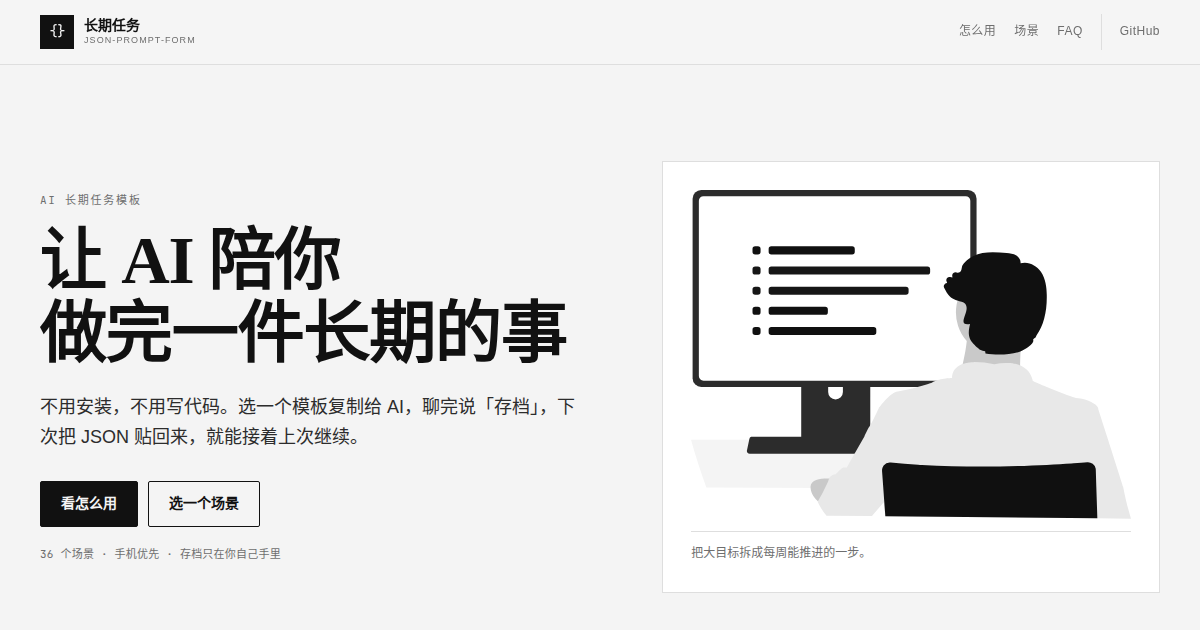
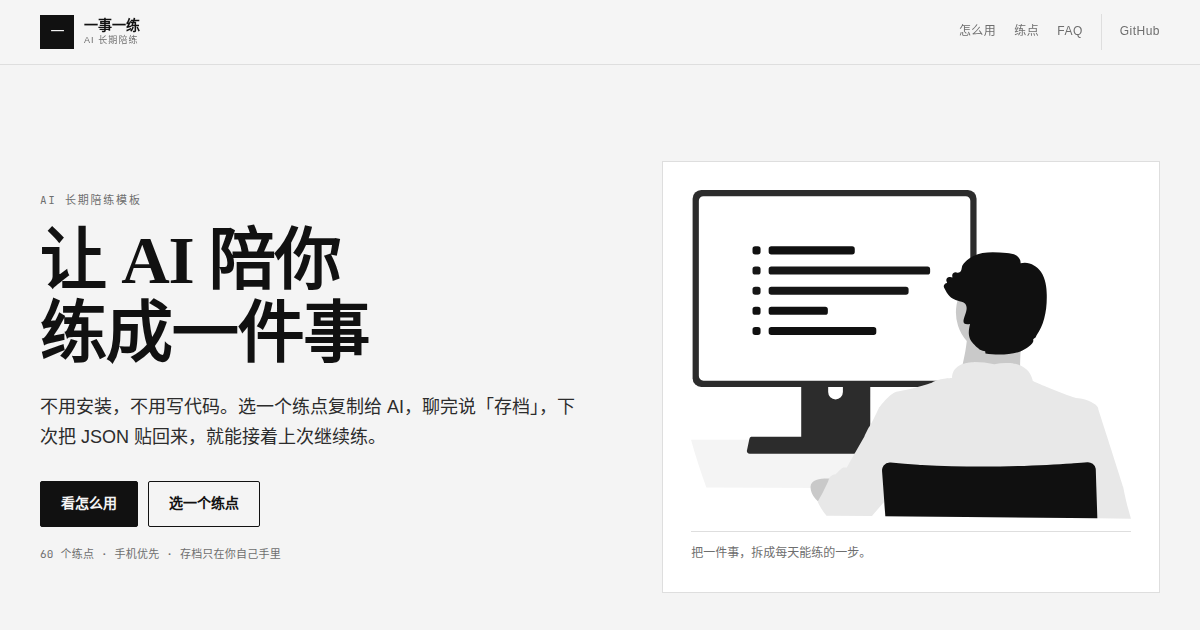
v2.6.0: 品牌更名为「一事一练 · AI 长期陪练」
- 首页标题/OG/首屏/页脚改为「一事一练」：让 AI 陪你练成一件事，场景单位改为「练点」
- 品牌标识从 {} 改为「一」，生成器/检查器同步新品牌
- 生成器副标题、生成模板的助手命名改为「长期陪练」
- manifest、README、demo、llms、FAQ、发布清单同步；仓库名与在线地址不变
- 重新生成 1200x630 社交预览图；sw 缓存升到 jpf-v13

diff --git a/index.html b/index.html
@@ -7,10 +7,10 @@
 <link rel="manifest" href="manifest.webmanifest">
 <meta name="theme-color" content="#f4f4f4">
 <link rel="apple-touch-icon" href="assets/apple-touch-icon.png">
-<title>长期任务 · AI 提示词模板 | json-prompt-form</title>
-<meta name="description" content="把长期任务交给 AI 陪你推进。选一个模板复制给 AI，聊完存档，下次接着来。手机可用，无需安装。">
-<meta property="og:title" content="长期任务 · AI 提示词模板">
-<meta property="og:description" content="把长期任务拆小，和 AI 一起推进。60 个场景，复制即用，手机优先。">
+<title>一事一练 · 让 AI 陪你练成一件事</title>
+<meta name="description" content="一次只练一件事。60 个练点，选一个复制给 AI，聊完说「存档」，下次贴回来接着练。无需安装，手机可用。">
+<meta property="og:title" content="一事一练 · 让 AI 陪你练成一件事">
+<meta property="og:description" content="一次只练一件事。60 个练点，复制即用，手机优先。">
 <meta property="og:type" content="website">
 <meta property="og:image" content="assets/social-preview.png">
 <meta name="twitter:card" content="summary_large_image">
@@ -470,13 +470,13 @@
 
 <header class="site-head" id="top">
   <div class="shell head-inner">
-    <a class="brand" href="./" aria-label="json-prompt-form 首页">
-      <span class="brand-mark" aria-hidden="true">{}</span>
-      <span class="brand-text">长期任务<small>json-prompt-form</small></span>
+    <a class="brand" href="./" aria-label="一事一练 首页">
+      <span class="brand-mark" aria-hidden="true">一</span>
+      <span class="brand-text">一事一练<small>AI 长期陪练</small></span>
     </a>
     <nav class="head-nav" aria-label="主导航">
       <a href="#how">怎么用</a>
-      <a href="#scenarios">场景</a>
+      <a href="#scenarios">练点</a>
       <a href="#faq">FAQ</a>
       <a class="head-gh" href="https://github.com/TuxLin123233/json-prompt-form" target="_blank" rel="noopener">GitHub</a>
     </nav>
@@ -486,18 +486,18 @@
 <main id="main">
   <section class="hero shell" aria-labelledby="hero-title">
     <div data-reveal>
-      <p class="eyebrow">AI 长期任务模板</p>
-      <h1 id="hero-title">让 AI 陪你<br>做完一件长期的事</h1>
-      <p class="hero-lead">不用安装，不用写代码。选一个模板复制给 AI，聊完说「存档」，下次把 JSON 贴回来，就能接着上次继续。</p>
+      <p class="eyebrow">AI 长期陪练模板</p>
+      <h1 id="hero-title">让 AI 陪你<br>练成一件事</h1>
+      <p class="hero-lead">不用安装，不用写代码。选一个练点复制给 AI，聊完说「存档」，下次把 JSON 贴回来，就能接着上次继续练。</p>
       <div class="hero-actions">
         <a class="btn btn-solid" href="#how">看怎么用</a>
-        <a class="btn btn-line" href="#scenarios">选一个场景</a>
+        <a class="btn btn-line" href="#scenarios">选一个练点</a>
       </div>
-      <p class="hero-note">60 个场景 · 手机优先 · 存档只在你自己手里</p>
+      <p class="hero-note">60 个练点 · 手机优先 · 存档只在你自己手里</p>
     </div>
     <figure class="hero-art" data-reveal style="--delay:120ms">
-      <img src="assets/illustrations/hero.svg" alt="一个人坐在桌前，整理长期任务的进度清单" width="960" height="719" loading="eager">
-      <figcaption>把大目标拆成每周能推进的一步。</figcaption>
+      <img src="assets/illustrations/hero.svg" alt="一个人坐在桌前，整理一件事的练习进度" width="960" height="719" loading="eager">
+      <figcaption>把一件事，拆成每天能练的一步。</figcaption>
     </figure>
   </section>
 
@@ -512,7 +512,7 @@
         <span class="step-num">01</span>
         <img src="assets/illustrations/step-copy.svg" alt="" width="960" height="775" loading="lazy">
         <h3>复制模板</h3>
-        <p>在下面选一个场景，点「复制模板」，把整份 JSON 发给 AI。</p>
+        <p>在下面选一个练点，点「复制模板」，把整份 JSON 发给 AI。</p>
       </li>
       <li class="how-step" data-reveal style="--delay:80ms">
         <span class="step-num">02</span>
@@ -540,9 +540,9 @@
 
   <section class="section shell" id="scenarios" aria-labelledby="scenarios-title">
     <div class="section-head" data-reveal>
-      <p class="eyebrow">60 个长期任务</p>
-      <h2 id="scenarios-title">选一个你想推进的事</h2>
-      <p>每个模板都会根据你的真实情况调整功能。找不到合适的，用自定义生成器。</p>
+      <p class="eyebrow">60 个练点</p>
+      <h2 id="scenarios-title">选一件你想练的事</h2>
+      <p>每个练点都会根据你的真实情况调整功能。找不到合适的，用自定义生成器。</p>
     </div>
     <div class="scenario-tools" data-reveal>
       <input class="search" id="search" type="search" placeholder="搜索：焦虑、存钱、论文、健身…" autocomplete="off" aria-label="搜索场景">
@@ -627,14 +627,14 @@
   <div class="shell foot-grid" data-reveal>
     <div class="foot-brand">
       <a class="brand" href="#top" aria-label="回到顶部">
-        <span class="brand-mark" aria-hidden="true">{}</span>
-        <span class="brand-text">长期任务<small>json-prompt-form</small></span>
+        <span class="brand-mark" aria-hidden="true">一</span>
+        <span class="brand-text">一事一练<small>AI 长期陪练</small></span>
       </a>
-      <p>把长期任务拆小，和 AI 一起推进。模板复制走，存档自己留着。</p>
+      <p>一次只练一件事，让 AI 陪你练下去。模板复制走，存档自己留着。</p>
     </div>
     <nav class="foot-links" aria-label="页脚导航">
       <a href="#how">怎么用</a>
-      <a href="#scenarios">全部场景</a>
+      <a href="#scenarios">全部练点</a>
       <a href="builder.html">自定义生成器</a>
       <a href="checker.html">存档检查器</a>
       <a href="FAQ.md">完整 FAQ</a>

diff --git a/builder.html b/builder.html
@@ -6,8 +6,8 @@
 <link rel="manifest" href="manifest.webmanifest">
 <meta name="theme-color" content="#f4f4f4">
 <link rel="apple-touch-icon" href="assets/apple-touch-icon.png">
-<title>自定义生成器 · json-prompt-form</title>
-<meta name="description" content="回答几个问题，现场生成属于你的长期任务 AI 模板。">
+<title>自定义生成器 · 一事一练</title>
+<meta name="description" content="回答几个问题，现场生成属于你的一件事长期陪练 AI 模板。">
 <style>
   :root {
     --paper: #f4f4f4; --paper-deep: #ebebeb; --card: #ffffff;
@@ -132,8 +132,8 @@
 <div class="wrap">
   <header class="topbar">
     <a class="brand" href="index.html" aria-label="回到首页">
-      <span class="brand-mark" aria-hidden="true">{}</span>
-      <span class="brand-text">长期任务<small>json-prompt-form</small></span>
+      <span class="brand-mark" aria-hidden="true">一</span>
+      <span class="brand-text">一事一练<small>AI 长期陪练</small></span>
     </a>
     <nav class="topnav" aria-label="页面导航">
       <a href="index.html">首页</a>
@@ -144,8 +144,8 @@
 
   <header class="hero">
     <p class="eyebrow">自定义生成器</p>
-    <h1>生成你自己的模板</h1>
-    <p>按你的情况回答几个问题，现场生成一份 JSON 长期任务模板。复制整段给 AI，就能开始。</p>
+    <h1>生成你自己的陪练模板</h1>
+    <p>按你的情况回答几个问题，现场生成一份 JSON 长期陪练模板。复制整段给 AI，就能开始练。</p>
   </header>
 
   <h2>1. 你的情况</h2>
@@ -265,7 +265,7 @@ function buildTemplate() {
   spec.goal = `根据用户的描述，设计并长期陪同一个「${name}」助手。开场读取用户贴入的存档续接；会话中可提议新增/调整/停用功能；结束时输出更新后的完整存档 JSON 供用户保存。`;
   spec.assistant_identity = {
     fill_rule: "首次会话由 AI 根据用户输入填入具体内容；续接时沿用存档中的值，除非用户要求调整。",
-    what: `${name}长期任务型助手`,
+    what: `${name}长期陪练助手`,
     why: pain || "帮助用户长期坚持一个目标",
     how: `友好、具体、每次只推进一步；每天约 ${minutes} 分钟，不堆任务`
   };

diff --git a/checker.html b/checker.html
@@ -6,7 +6,7 @@
 <link rel="manifest" href="manifest.webmanifest">
 <meta name="theme-color" content="#f4f4f4">
 <link rel="apple-touch-icon" href="assets/apple-touch-icon.png">
-<title>存档检查器 · json-prompt-form</title>
+<title>存档检查器 · 一事一练</title>
 <meta name="description" content="粘贴 AI 输出的存档 JSON，检查格式、字段、截断和功能状态。">
 <style>
   :root {
@@ -152,8 +152,8 @@
 <div class="wrap">
   <header class="topbar">
     <a class="brand" href="index.html" aria-label="回到首页">
-      <span class="brand-mark" aria-hidden="true">{}</span>
-      <span class="brand-text">长期任务<small>json-prompt-form</small></span>
+      <span class="brand-mark" aria-hidden="true">一</span>
+      <span class="brand-text">一事一练<small>AI 长期陪练</small></span>
     </a>
     <nav class="topnav" aria-label="页面导航">
       <a href="index.html">首页</a>

diff --git a/sw.js b/sw.js
@@ -1,4 +1,4 @@
-const CACHE = "jpf-v12";
+const CACHE = "jpf-v13";
 const CORE = [
   "./",
   "index.html",

diff --git a/README.md b/README.md
@@ -1,4 +1,6 @@
-# 🤖 json-prompt-form
+# 一事一练
+
+> 仓库名沿用 `json-prompt-form`，在线地址与存档格式保持不变。
 
 [![License: MIT](https://img.shields.io/badge/License-MIT-yellow.svg)](./LICENSE)
 [![JSON](https://img.shields.io/badge/format-JSON-blue.svg)](./form.json)
@@ -6,13 +8,13 @@
 [![Last commit](https://img.shields.io/github/last-commit/TuxLin123233/json-prompt-form)](https://github.com/TuxLin123233/json-prompt-form/commits/main)
 
 
-<img src="./assets/social-preview.png" alt="让 AI 陪你做完一件长期的事" width="100%">
+<img src="./assets/social-preview.png" alt="让 AI 陪你练成一件事" width="100%">
 
-> 一个能「记住你」的 AI 助手模板。会复制粘贴，就能用。✨
+> 一次只练一件事。一个能「记住你」的 AI 长期陪练模板，会复制粘贴就能用。✨
 
 ## ✨ 这是什么？
 
-把它想成一张**给 AI 的长期任务说明书**，外加一份**可以反复续上的存档**。
+把它想成一张**给 AI 的长期陪练说明书**，外加一份**可以反复续上的存档**。
 
 普通提示词聊完就忘；这个模板能让 AI 每次读你的存档，接着上次继续聊、继续帮你。
 
@@ -95,7 +97,7 @@ flowchart TD
 | ❓ [`FAQ.md`](./FAQ.md) | 常见问题 |
 | 🤝 [`CONTRIBUTING.md`](./CONTRIBUTING.md) | 如何新增场景 |
 
-## 🎯 现成场景
+## 🎯 60 个练点
 
 | 场景 | 文件 | 适合谁 | 每日 |
 | --- | --- | --- | --- |
@@ -160,7 +162,7 @@ flowchart TD
 | 旅行规划 | [`travel.json`](./examples/travel.json) | 想出去玩，但做攻略太累 | 10 分钟 |
 | 独居生活 | [`solo-living.json`](./examples/solo-living.json) | 一个人住，生活容易乱套 | 10 分钟 |
 
-每个模板都会根据你的实际情况调整功能，也会在聊天中主动提议加新功能。
+每个练点都会根据你的实际情况调整功能，也会在聊天中主动提议加新功能。
 
 英文模板在 [`examples/en/`](./examples/en)；想看填好的存档长什么样，打开 [`examples/filled/`](./examples/filled)。
 

diff --git a/docs/publish-checklist.md b/docs/publish-checklist.md
@@ -16,7 +16,7 @@
 
 | 平台 | 角度 | 形式 |
 | --- | --- | --- |
-| 小红书 | 「网页 AI 聊完就忘？我做了 60 个长期任务模板」 | 图文 6–9 张 + 30 秒视频 |
+| 小红书 | 「网页 AI 聊完就忘？我做了 60 个长期陪练模板」 | 图文 6–9 张 + 30 秒视频 |
 | V2EX | 「用 JSON 存档解决网页 LLM 跨会话记忆」 | 技术分享帖 |
 | 少数派 | 「不靠插件，让网页 AI 记住你的工作流」 | 教程长文 |
 | 即刻 | 「做了个让 AI 记住你的小工具」 | 短动态 + 链接 |
@@ -28,7 +28,7 @@
 - 网页版 AI 聊完就忘？试试给它一份存档
 - 一个 JSON，让 DeepSeek 长期记住你
 - 不装插件，让 AI 记住你的第 30 天
-- 我把「长期任务提示词」做成了 60 个模板
+- 我把「长期陪练提示词」做成了 60 个练点
 - 聊完说「存档」，下次接着来
 
 ## 4. 封面与素材

diff --git a/CHANGELOG.md b/CHANGELOG.md
@@ -2,6 +2,13 @@
 
 本项目遵循 [语义化版本](https://semver.org/lang/zh-CN/)。存档结构变化会提升 `schema_version`。
 
+## v2.6.0 — 2026-11-21
+
+### 变更
+- 品牌从「长期任务」更名为「一事一练 · AI 长期陪练」，首页文案改为「选一件想练的事 / 60 个练点」。
+- 生成器、检查器、manifest、README、demo、llms、FAQ、发布清单同步新品牌；仓库名与在线地址保持不变。
+- sw 缓存升到 jpf-v13。
+
 ## v2.5.0 — 2026-11-21
 
 ### 新增

diff --git a/FAQ.md b/FAQ.md
@@ -2,7 +2,7 @@
 
 ## 1. 我需要会写代码吗？
 
-不需要。会复制粘贴就能用。选一个模板 → 整份粘贴给 AI → 按它说的做。
+不需要。会复制粘贴就能用。选一个练点 → 整份粘贴给 AI → 按它说的做。
 
 ## 2. AI 不输出 JSON / 只输出了一半怎么办？
 
